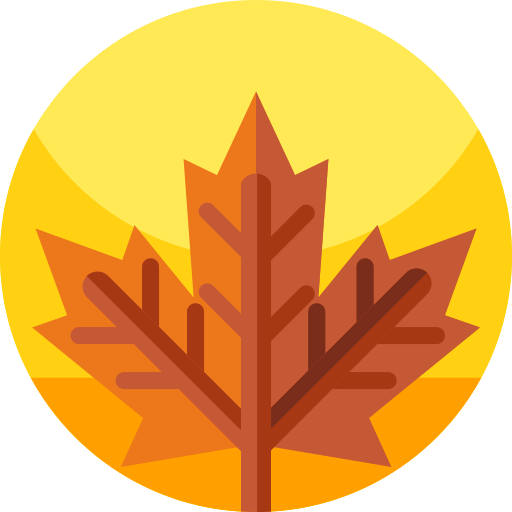
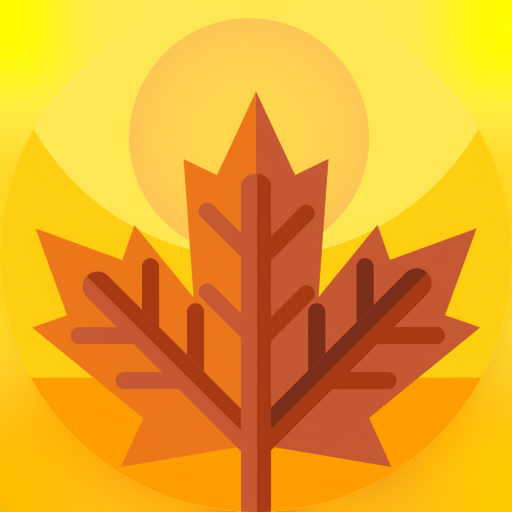
Add files via upload

Changed region(s): [[0.0, 0.0, 1.0, 0.4688], [0.5625, 0.5625, 1.0, 1.0], [0.0, 0.5625, 0.4375, 1.0]]

diff --git a/index.html b/index.html
@@ -388,33 +388,11 @@
                     </div>
                 </div>
 
-                <!-- Day 6 -->
-                <div class="bg-gray-50 dark:bg-slate-900/60 rounded-2xl p-3.5 border border-gray-200 dark:border-slate-700 space-y-2">
-                    <div class="flex items-center justify-between pb-1.5 border-b border-gray-200 dark:border-slate-700">
-                        <span class="bg-gray-600 text-white font-black text-[11px] px-2.5 py-0.5 rounded-lg">01/12 (Tue)</span>
-                        <span class="font-bold text-gray-500">Day 6 築地皇居 teamLab</span>
-                    </div>
-                    <div class="grid grid-cols-3 gap-2 text-center text-[11px]">
-                        <div class="p-2 bg-white dark:bg-slate-800 rounded-xl border border-gray-100 dark:border-slate-700/60">
-                            <span class="block text-amber-500 font-bold mb-0.5">☀ 上午</span>
-                            <span class="font-medium text-gray-700 dark:text-gray-300">09:30 築地海玄</span>
-                        </div>
-                        <div class="p-2 bg-white dark:bg-slate-800 rounded-xl border border-gray-100 dark:border-slate-700/60">
-                            <span class="block text-blue-500 font-bold mb-0.5">🌤 下午</span>
-                            <span class="font-medium text-gray-700 dark:text-gray-300">皇居 ‧ 銀座八五 ‧ Dover ‧ Chocolatier</span>
-                        </div>
-                        <div class="p-2 bg-white dark:bg-slate-800 rounded-xl border border-gray-100 dark:border-slate-700/60">
-                            <span class="block text-purple-500 font-bold mb-0.5">🌙 晚上</span>
-                            <span class="font-medium text-gray-700 dark:text-gray-300">麻布台teamLab ‧ 東京鐵塔 ‧ Aldebaran</span>
-                        </div>
-                    </div>
-                </div>
-
-                <!-- Day 7 (⭐ 匯合) -->
+                <!-- Day 6 (⭐ 匯合：01/12 對調後) -->
                 <div class="bg-red-500/5 dark:bg-red-950/20 rounded-2xl p-3.5 border border-red-200 dark:border-red-900/40 space-y-2">
                     <div class="flex items-center justify-between pb-1.5 border-b border-red-200 dark:border-red-900/40">
-                        <span class="bg-tokyo-red text-white font-black text-[11px] px-2.5 py-0.5 rounded-lg">02/12 (Wed) ⭐</span>
-                        <span class="font-bold text-tokyo-red">Day 7 浦和鰻魚川越古街</span>
+                        <span class="bg-tokyo-red text-white font-black text-[11px] px-2.5 py-0.5 rounded-lg">01/12 (Tue) ⭐</span>
+                        <span class="font-bold text-tokyo-red">Day 6 浦和鰻魚川越古街</span>
                     </div>
                     <div class="grid grid-cols-3 gap-2 text-center text-[11px]">
                         <div class="p-2 bg-white dark:bg-slate-800 rounded-xl border border-gray-100 dark:border-slate-700/60">
@@ -428,6 +406,28 @@
                         <div class="p-2 bg-white dark:bg-slate-800 rounded-xl border border-gray-100 dark:border-slate-700/60">
                             <span class="block text-purple-500 font-bold mb-0.5">🌙 晚上</span>
                             <span class="font-medium text-gray-700 dark:text-gray-300">17:30 中華そば 深綠</span>
+                        </div>
+                    </div>
+                </div>
+
+                <!-- Day 7 (02/12 對調後) -->
+                <div class="bg-gray-50 dark:bg-slate-900/60 rounded-2xl p-3.5 border border-gray-200 dark:border-slate-700 space-y-2">
+                    <div class="flex items-center justify-between pb-1.5 border-b border-gray-200 dark:border-slate-700">
+                        <span class="bg-gray-600 text-white font-black text-[11px] px-2.5 py-0.5 rounded-lg">02/12 (Wed)</span>
+                        <span class="font-bold text-gray-500">Day 7 築地皇居 teamLab</span>
+                    </div>
+                    <div class="grid grid-cols-3 gap-2 text-center text-[11px]">
+                        <div class="p-2 bg-white dark:bg-slate-800 rounded-xl border border-gray-100 dark:border-slate-700/60">
+                            <span class="block text-amber-500 font-bold mb-0.5">☀ 上午</span>
+                            <span class="font-medium text-gray-700 dark:text-gray-300">09:30 築地海玄</span>
+                        </div>
+                        <div class="p-2 bg-white dark:bg-slate-800 rounded-xl border border-gray-100 dark:border-slate-700/60">
+                            <span class="block text-blue-500 font-bold mb-0.5">🌤 下午</span>
+                            <span class="font-medium text-gray-700 dark:text-gray-300">皇居 ‧ 銀座八五 ‧ Dover ‧ Chocolatier</span>
+                        </div>
+                        <div class="p-2 bg-white dark:bg-slate-800 rounded-xl border border-gray-100 dark:border-slate-700/60">
+                            <span class="block text-purple-500 font-bold mb-0.5">🌙 晚上</span>
+                            <span class="font-medium text-gray-700 dark:text-gray-300">麻布台teamLab ‧ 東京鐵塔 ‧ Aldebaran</span>
                         </div>
                     </div>
                 </div>
@@ -818,7 +818,7 @@
             }
         ];
 
-        // 完整 11 天行程（包含指定 8 個景點的 isChit 標記）
+        // 完整 11 天行程（已調配：Day 8 為 12/01 浦和鰻魚/水杉，Day 9 為 12/02 港區高輪十社/觀景/和牛丼，Day 10 為 12/03 池袋今半/購物/瞭望台/前野原溫泉）
         const itineraryData = [
             {
                 day: 1, date: "11/24", week: "Tue", title: "夜飛離港 成田啟程",
@@ -908,8 +908,20 @@
                 ]
             },
             {
-                day: 8, date: "12/01", week: "Tue", title: "東京十社 (9-10) 炸豬排咖啡百名店 高輪Gateway City高空觀景",
-                summary: "Tonkatsu Iwai 享用六白黑豚炸豬排、參拜芝大神宮、Le Pain Quotidien 芝公園 Café 輕食、芝公園東京鐵塔紅葉散策、參拜品川神社完成十社大滿貫！高輪 Gateway City LUFTBAUM 高空觀景與牛丼㐂㐂屋享用頂級和牛丼晚餐。", tag: "shrine",
+                day: 8, date: "12/01", week: "Tue", title: "埼玉浦和 4.02 神級鰻魚 水杉逆影紅葉 質感Café 麵包百名店",
+                summary: "東武練馬出發至埼玉浦和，排隊品嚐 4.02 神級鰻魚飯「鰻 むさし乃」、別所沼公園水杉逆影紅葉散策、ANOTHER PLACE CAFÉ 愜意輕食、KU~NERUbakery 採買手作麵包，返回東武練馬 Airbnb 稍息與 AEON 超市採買。", tag: "food",
+                items: [
+                    { time: "10:30", spot: "鰻 むさし乃", isChit: true, category: "food", desc: "東武練馬出發約 35-45 分鐘抵達埼玉浦和站排隊，品嚐宮崎佐土原和匠鰻新仔鰻重（JPY 6,600）。（11:00-13:00 營業，休一）", badge: "Tabelog 4.02 神級鰻魚百名店", googleMapUrl: "https://maps.app.goo.gl/5H6AMgzgQBFXimyQA", tabelogUrl: "https://tabelog.com/saitama/A1101/A110102/11003959/", appScheme: "tabelog://", officialUrl: "http://unagimusashino.com/", img: "Tokyo 2026/Day9/Day9鰻.jpg", icon: "🍱" },
+                    { time: "13:00", spot: "別所沼公園 水杉 逆さ紅葉", isChit: true, category: "nature", desc: "漫步別所沼公園，欣賞浪漫水杉與湖面白倒映的逆影紅葉美景。", badge: "水杉逆影紅葉", googleMapUrl: "https://maps.app.goo.gl/iWMX3LwsxqEE4yAu7", officialUrl: "https://www.sgp.or.jp/bessyonuma", img: "Tokyo 2026/Day9/Day9別所沼公園.jpg", icon: "🍁" },
+                    { time: "14:00", spot: "ANOTHER PLACE CAFÉ", category: "food", desc: "公園旁質感咖啡廳，享受午後放鬆氛圍與精緻輕食。", badge: "Tabelog 3.50 質感 Café", googleMapUrl: "https://maps.app.goo.gl/75yUYG4MkeYT9wVo9", tabelogUrl: "https://tabelog.com/saitama/A1101/A110102/11050911/", appScheme: "tabelog://", officialUrl: "https://gourmet513.com/page/index?gs=XOKva48yQAHC", img: "Tokyo 2026/Day9/Day9ANOTHER PLACE CAFÉ.jpg", icon: "☕" },
+                    { time: "15:00", spot: "KU~NERUbakery", category: "food", desc: "浦和站旁高評價麵包百名店，採買特色手作麵包。", badge: "Tabelog 3.70 麵包百名店", googleMapUrl: "https://maps.app.goo.gl/sA6Tos4HKTxAjDhXA", tabelogUrl: "https://tabelog.com/saitama/A1101/A110102/11028957/", appScheme: "tabelog://", officialUrl: "", img: "Tokyo 2026/Day9/Day9 KU~NERUbakery.jpg", icon: "🥐" },
+                    { time: "16:00", spot: "東武練馬 Airbnb 稍息", category: "hotel", desc: "返回東武練馬民宿整理與短暫休息補眠。", badge: "民宿休息", googleMapUrl: "https://maps.app.goo.gl/hn3Yvx5upiEGyNm86", officialUrl: "https://www.airbnb.com.hk/rooms/912618396435484170?guests=1&adults=1&s=67&unique_share_id=c48cfd75-8954-41da-b00b-15d6e9aef960", icon: "🛏" },
+                    { time: "18:30", spot: "東武練馬板橋 AEON 超市", category: "shop", desc: "前往板橋 AEON 超市採買當季水果、小食與用品補給。", badge: "超市採買", googleMapUrl: "https://maps.app.goo.gl/eGpMNbDnYMqRawMWA", officialUrl: "https://www.aeon.jp/sc/itabashi/", icon: "🛍" }
+                ]
+            },
+            {
+                day: 9, date: "12/02", week: "Wed", title: "東京十社 (9-10) 港區高輪 炸豬排 芝公園 品川神社大滿貫 高空觀景 和牛丼",
+                summary: "Tonkatsu Iwai 享用六白黑豚炸豬排、參拜芝大神宮、Le Pain Quotidien 芝公園 Café 輕食、芝公園東京鐵塔紅葉散策、參拜品川神社完成十社大滿貫！高輪 Gateway City LUFTBAUM 高空觀景與牛丼 㐂㐂屋享用頂級和牛丼晚餐。", tag: "shrine",
                 items: [
                     { time: "11:00", spot: "Tonkatsu Iwai (とんかつ いわい)", category: "food", desc: "享用夢幻頂級六白黑豚炸豬排。（11:30-14:30 營業，休日）", badge: "Tabelog 3.75 炸豬排百名店", googleMapUrl: "https://maps.app.goo.gl/9aNkkmJpcygHpE2e6", tabelogUrl: "https://tabelog.com/tokyo/A1314/A131401/13170377/", appScheme: "tabelog://", officialUrl: "https://tonkatsu-iwai.com/menu.html", img: "Tokyo 2026/Day8/Day8Tonkatsu Iwai.jpg", icon: "🥩" },
                     { time: "12:45", spot: "芝大神宮", category: "shrine", desc: "參拜、購買小繪馬，現場手寫（直書き）/ 御朱印紙（書き置き）。", badge: "十社巡禮 9/10", googleMapUrl: "https://maps.app.goo.gl/JefQyHB14mL3jZP98", officialUrl: "https://www.shibadaijingu.com/", img: "Tokyo 2026/Day8/Day8芝大神宮.jpg", icon: "⛩" },
@@ -917,31 +929,19 @@
                     { time: "14:00", spot: "芝公園", category: "nature", desc: "漫步芝公園，欣賞東京鐵塔與金黃紅葉交織絕景散策。", badge: "東京鐵塔紅葉散策", googleMapUrl: "https://maps.app.goo.gl/BGcCPSgVZ48d456YA", officialUrl: "https://www.tokyo-park.or.jp/park/siba/", img: "Tokyo 2026/Day8/Day8芝公園.jpg", icon: "🗼" },
                     { time: "15:15", spot: "品川神社", category: "shrine", desc: "參拜、購買小繪馬，現場手寫（直書き）/ 御朱印紙（書き置き）。", badge: "十社巡禮 大滿貫 🎉 10/10", googleMapUrl: "https://maps.app.goo.gl/SyA2Xa5JRGK98Lr98", officialUrl: "https://shinagawajinja.tokyo/", img: "Tokyo 2026/Day8/Day8品川神社.jpg", icon: "⛩" },
                     { time: "16:00", spot: "高輪Gateway City ‧ LUFTBAUM高空觀景", category: "nature", desc: "登高高輪 Gateway City 28F LUFTBAUM，俯瞰全景高空城市景致。", badge: "高空觀景台", googleMapUrl: "https://maps.app.goo.gl/46STiAEGNpSGXPqg7", officialUrl: "https://www.newoman.jp/takanawa/floorguide/?area=area03nman01&floor=28f", img: "Tokyo 2026/Day8/Day8高輪.jpg", icon: "🏢" },
-                    { time: "18:00 - 19:00", spot: "牛丼 㐂㐂屋 (高輪MIMURE 3樓 NEWoMan)", category: "food", desc: "品嚐頂級品牌和牛丼：常陸牛丼 JPY 2,700、山形牛丼 JPY 3,200、神戶牛丼 JPY 4,950。（11:00-22:00 營業）。晚餐後約 19:00 乘車返回東武練馬站。", badge: "Tabelog 3.41 頂級和牛丼", googleMapUrl: "https://maps.app.goo.gl/aqphCZqmjx7vhXsC6", tabelogUrl: "https://tabelog.com/tokyo/A1314/A131403/13319190/", appScheme: "tabelog://", officialUrl: "https://www.instagram.com/gyudon_kikiya/", img: "Tokyo 2026/Day8/Day8㐂㐂屋.jpg", icon: "🍚" }
+                    { time: "18:00", spot: "牛丼 㐂㐂屋 (高輪MIMURE 3樓 NEWoMan)", category: "food", desc: "品嚐頂級品牌和牛丼：常陸牛丼 JPY 2,700、山形牛丼 JPY 3,200、神戶牛丼 JPY 4,950。（11:00-22:00 營業）。晚餐後乘車返回東武練馬站。", badge: "Tabelog 3.41 頂級和牛丼", googleMapUrl: "https://maps.app.goo.gl/aqphCZqmjx7vhXsC6", tabelogUrl: "https://tabelog.com/tokyo/A1314/A131403/13319190/", appScheme: "tabelog://", officialUrl: "https://www.instagram.com/gyudon_kikiya/", img: "Tokyo 2026/Day8/Day8㐂㐂屋.jpg", icon: "🍚" }
                 ]
             },
             {
-                day: 9, date: "12/02", week: "Wed", title: "埼玉 鰻魚紅葉半日遊 古民家溫泉夜",
-                summary: "東武練馬出發至埼玉浦和，排隊享用 4.02 神級鰻魚飯「鰻 むさし乃」、別所沼公園水杉逆影紅葉散策、ANOTHER PLACE CAFÉ 愜意輕食、KU~NERUbakery 3.70 麵包百名店採買、返回東武練馬 Airbnb 稍息，晚間前往前野原溫泉さやの湯處，於柿天舍享用和食晚餐並體驗露天風呂天然溫泉。", tag: "onsen",
-                items: [
-                    { time: "10:30", spot: "鰻 むさし乃", isChit: true, category: "food", desc: "東武練馬出發約 35-45 分鐘抵達埼玉浦和站排隊，品嚐宮崎佐土原和匠鰻新仔鰻重（JPY 6,600）。（11:00-13:00 營業，休一）", badge: "Tabelog 4.02 神級鰻魚百名店", googleMapUrl: "https://maps.app.goo.gl/5H6AMgzgQBFXimyQA", tabelogUrl: "https://tabelog.com/saitama/A1101/A110102/11003959/", appScheme: "tabelog://", officialUrl: "http://unagimusashino.com/", img: "Tokyo 2026/Day9/Day9鰻.jpg", icon: "🍱" },
-                    { time: "13:00", spot: "別所沼公園 水杉 逆さ紅葉", category: "nature", desc: "漫步別所沼公園，欣賞浪漫水杉與湖面白倒映的逆影紅葉美景。", badge: "水杉逆影紅葉", googleMapUrl: "https://maps.app.goo.gl/iWMX3LwsxqEE4yAu7", officialUrl: "https://www.sgp.or.jp/bessyonuma", img: "Tokyo 2026/Day9/Day9別所沼公園.jpg", icon: "🍁" },
-                    { time: "14:00", spot: "ANOTHER PLACE CAFÉ", category: "food", desc: "公園旁質感咖啡廳，享受午後放鬆氛圍與精緻輕食。", badge: "Tabelog 3.50 質感 Café", googleMapUrl: "https://maps.app.goo.gl/75yUYG4MkeYT9wVo9", tabelogUrl: "https://tabelog.com/saitama/A1101/A110102/11050911/", appScheme: "tabelog://", officialUrl: "https://gourmet513.com/page/index?gs=XOKva48yQAHC", img: "Tokyo 2026/Day9/Day9ANOTHER PLACE CAFÉ.jpg", icon: "☕" },
-                    { time: "15:00", spot: "KU~NERUbakery", category: "food", desc: "浦和站旁高評價麵包百名店，採買特色手作麵包。", badge: "Tabelog 3.70 麵包百名店", googleMapUrl: "https://maps.app.goo.gl/sA6Tos4HKTxAjDhXA", tabelogUrl: "https://tabelog.com/saitama/A1101/A110102/11028957/", appScheme: "tabelog://", officialUrl: "", img: "Tokyo 2026/Day9/Day9 KU~NERUbakery.jpg", icon: "🥐" },
-                    { time: "16:00", spot: "東武練馬 Airbnb 稍息", category: "hotel", desc: "返回東武練馬民宿整理與短暫休息補眠。", badge: "民宿休息", googleMapUrl: "https://maps.app.goo.gl/hn3Yvx5upiEGyNm86", officialUrl: "https://www.airbnb.com.hk/rooms/912618396435484170?guests=1&adults=1&s=67&unique_share_id=c48cfd75-8954-41da-b00b-15d6e9aef960", icon: "🛏" },
-                    { time: "18:30", spot: "前野原溫泉 さやの湯處 柿天舍", category: "food", desc: "於古民家餐廳「柿天舍」享用十割蕎麥丼飯套餐或日式和食套餐。（10:00-00:00 營業）", badge: "Tabelog 3.48 古民家和食", googleMapUrl: "https://maps.app.goo.gl/NdxgSxogB3K6NFbV7", tabelogUrl: "https://tabelog.com/tokyo/A1322/A132205/13032298/", appScheme: "tabelog://", officialUrl: "https://www.sayanoyudokoro.co.jp/", img: "Tokyo 2026/Day9/Day9柿天舍.jpeg", icon: "🍲" },
-                    { time: "19:30", spot: "前野原溫泉 さやの湯處 露天風呂天然溫泉", category: "onsen", desc: "體驗源泉直瀉古民家露天風呂天然溫泉放鬆身心。巴士來回約 15 分鐘，隨後返回東武練馬 Airbnb。", badge: "源泉直瀉露天名湯", googleMapUrl: "https://maps.app.goo.gl/NdxgSxogB3K6NFbV7", officialUrl: "https://www.sayanoyudokoro.co.jp/facilities/", img: "Tokyo 2026/Day9/Day9前野原溫泉.jpg", icon: "♨" }
-                ]
-            },
-            {
-                day: 10, date: "12/03", week: "Thu", title: "池袋 購物 觀景 壽喜燒 海鮮丼",
-                summary: "享用人形町今半 15F 頂級壽喜燒 Lunch Set、池袋商圈熱鬧逛街採買（3Coins+Plus、Standard Products、Seria、太陽城 alpa SM2 / Studio CLIP）、太陽城陽光 60 瞭望台 TENBOU-PARK 欣賞高空落日夜景、品嚐宍道湖蜆中華蕎麥琥珀特上拉麵，晚間返回東武練馬板橋 AEON 採買海膽拖羅醋飯返 Airbnb 享用宵夜。", tag: "shop",
+                day: 10, date: "12/03", week: "Thu", title: "池袋 壽喜燒 購物 觀景 前野原溫泉古民家和食夜",
+                summary: "享用人形町今半 15F 頂級壽喜燒 Lunch Set、池袋商圈熱鬧購物採買、太陽城陽光 60 瞭望台 TENBOU-PARK 欣賞高空夕陽絕景、返 Airbnb 稍息，晚間前往前野原溫泉さやの湯處，於柿天舍享用和食晚餐並體驗露天風呂天然溫泉。", tag: "onsen",
                 items: [
                     { time: "12:00", spot: "人形町今半 (池袋東武店 15F)", isChit: true, category: "food", desc: "享用百年老店極致黑毛和牛壽喜燒 Lunch Set (JPY 7,920)。（11:00-15:00，官網提前兩星期網上預約）", badge: "Tabelog 3.60 百年壽喜燒名店", googleMapUrl: "https://maps.app.goo.gl/irEJsQw2GtppiPz8A", tabelogUrl: "https://tabelog.com/tokyo/A1305/A130501/13187796/", appScheme: "tabelog://", officialUrl: "https://restaurant.imahan.com/menu-ikebukuro-tobu/", img: "Tokyo 2026/Day10/Day10人形町今半.jpg", icon: "🍲" },
                     { time: "13:30", spot: "池袋逛街購物", category: "shop", desc: "池袋商圈熱鬧散策採買：3Coins+Plus、Standard Products、Seria，以及太陽城 alpa B1F SM2 (Samansa Mos2)、1F Studio CLIP (FELISSIMO outlook)。", badge: "池袋商圈 Shopping", googleMapUrl: "https://maps.app.goo.gl/n9zPBEEP3gnZnV5t7", officialUrl: "", icon: "🛍" },
                     { time: "16:30", spot: "太陽城陽光60瞭望台 TENBOU-PARK", category: "nature", desc: "登高高空綠洲 TENBOU-PARK，俯瞰 360 度池袋與東京天際線夕陽絕景。", badge: "高空 360 度觀景台", googleMapUrl: "https://maps.app.goo.gl/8GZRZTWLy7ndJuao7", officialUrl: "https://sunshinecity.jp/observatory/?utm_source=Google&utm_medium=mybusiness&utm_campaign=kutikomi&utm_id=1", img: "Tokyo 2026/Day10/Day10TENBOU-PARK.jpg", icon: "🌆" },
-                    { time: "18:15", spot: "宍道湖蜆中華蕎麥 琥珀 池袋店", category: "food", desc: "品嚐極致鮮美黃金蜆湯頭特上中華蕎麥拉麵。（11:00-22:30 營業）", badge: "Tabelog 3.74 超人氣拉麵", googleMapUrl: "https://maps.app.goo.gl/SP9wn5MYUh5xtW8c8", tabelogUrl: "https://tabelog.com/tokyo/A1305/A130501/13283190/", appScheme: "tabelog://", officialUrl: "https://x.com/ikebukurokohaku", img: "Tokyo 2026/Day10/Day10琥珀.jpg", icon: "🍜" },
-                    { time: "18:30 - 19:30", spot: "東武練馬板橋 AEON 超市", category: "shop", desc: "搭車返回東武練馬，於板橋 AEON 超市採買新鮮海膽與拖羅醋飯，帶返 Airbnb 享用美味海鮮晚餐宵夜。", badge: "海鮮宵夜採買", googleMapUrl: "https://maps.app.goo.gl/eGpMNbDnYMqRawMWA", officialUrl: "https://www.aeon.jp/sc/itabashi/", icon: "🍱" }
+                    { time: "18:00", spot: "東武練馬 Airbnb 稍息", category: "hotel", desc: "返回東武練馬民宿整理戰利品與短暫休息補眠。", badge: "民宿休息", googleMapUrl: "https://maps.app.goo.gl/hn3Yvx5upiEGyNm86", officialUrl: "https://www.airbnb.com.hk/rooms/912618396435484170?guests=1&adults=1&s=67&unique_share_id=c48cfd75-8954-41da-b00b-15d6e9aef960", icon: "🛏" },
+                    { time: "19:30", spot: "前野原溫泉 さやの湯處 柿天舍", category: "food", desc: "於古民家餐廳「柿天舍」享用十割蕎麥丼飯套餐或日式和食套餐。（10:00-00:00 營業）", badge: "Tabelog 3.48 古民家和食", googleMapUrl: "https://maps.app.goo.gl/NdxgSxogB3K6NFbV7", tabelogUrl: "https://tabelog.com/tokyo/A1322/A132205/13032298/", appScheme: "tabelog://", officialUrl: "https://www.sayanoyudokoro.co.jp/", img: "Tokyo 2026/Day9/Day9柿天舍.jpeg", icon: "🍲" },
+                    { time: "20:30", spot: "前野原溫泉 さやの湯處 露天風呂天然溫泉", category: "onsen", desc: "體驗源泉直瀉古民家露天風呂天然溫泉放鬆身心。隨後返回東武練馬 Airbnb。", badge: "源泉直瀉露天名湯", googleMapUrl: "https://maps.app.goo.gl/NdxgSxogB3K6NFbV7", officialUrl: "https://www.sayanoyudokoro.co.jp/facilities/", img: "Tokyo 2026/Day9/Day9前野原溫泉.jpg", icon: "♨" }
                 ]
             },
             {
@@ -954,7 +954,7 @@
                     { time: "13:30", spot: "Patisserie Materiel (パティスリー マテリエル)", category: "food", desc: "享用甜品百名店精緻絕倫的法式蛋糕與手作甜品。（10:00-18:00 營業，休三四）", badge: "Tabelog 3.81 甜品百名店", googleMapUrl: "https://maps.app.goo.gl/ieWd2n6GCMV3K7LTA", tabelogUrl: "https://tabelog.com/tokyo/A1322/A132203/13110008/", appScheme: "tabelog://", officialUrl: "http://www.patisserie-materiel.com/index.html", img: "Tokyo 2026/Day11/Day11Patisserie Materiel.jpg", icon: "🍰" },
                     { time: "15:30 - 18:00", spot: "機場巴士前往成田機場 T2 辦理 Check-in", category: "transport", desc: "返回池袋 Big Echo 取回行李，搭乘機場利木津巴士直達成田國際機場 Terminal 2，於 18:00 前抵達 Counter 辦理 UO651 航班 Check-in 及託運行李。", badge: "機票 UO651 (20:05 起飛)", googleMapUrl: "https://www.google.com/maps/search/?api=1&query=Narita+Airport+Terminal+2", officialUrl: "https://www.narita-airport.jp/zh-tc/shop/malllist-t2/", icon: "🚌" },
                     { time: "18:45", spot: "JAPAN FOOD HALL ‧ すし京辰 (成田機場 T2 出境後)", category: "food", desc: "出境後於 JAPAN FOOD HALL 內「すし京辰」享用離境前極致美味的野生黑鮪魚飯 (JPY 5,500) 或現場其他精緻日式美食。", badge: "Tabelog 3.18 野生黑鮪魚飯", tabelogUrl: "https://tabelog.com/chiba/A1204/A120401/12058358/", appScheme: "tabelog://", officialUrl: "https://tisshuang.com/blog/post/japan-food-hall", img: "Tokyo 2026/Day11/Day11 JAPAN FOOD HALL.jpg", icon: "🍣" },
-                    { time: "20:05", spot: "香港快運 UO651 ✈ 滿載回憶返港", category: "transport", desc: "搭乘香港快運 UO651 航班 (20:05 起飛)，預計深夜抵達香港，為 11 天精彩的東京秋漫遊劃下完美句點！", badge: "返抵香港 🇭🇰", officialUrl: "https://www.hkexpress.com/", appScheme: "hkexpress://", icon: "🛫" }
+                    { time: "20:05", spot: "香港快運 UO651 ✈ 滿載回億返港", category: "transport", desc: "搭乘香港快運 UO651 航班 (20:05 起飛)，預計深夜抵達香港，為 11 天精彩的東京秋漫遊劃下完美句點！", badge: "返抵香港 🇭🇰", officialUrl: "https://www.hkexpress.com/", appScheme: "hkexpress://", icon: "🛫" }
                 ]
             }
         ];
